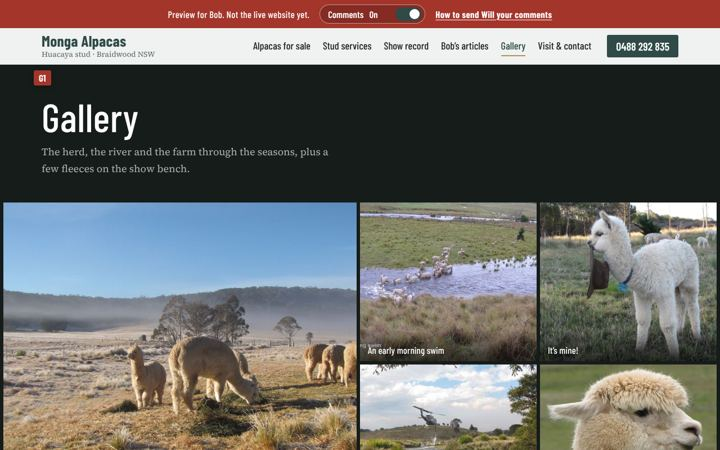
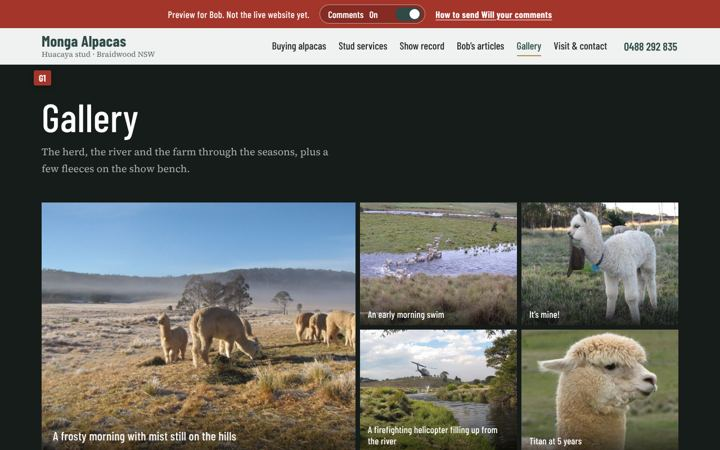
Commit 3

diff --git a/website/index.html b/website/index.html
@@ -22,9 +22,9 @@
 
 <header class="top">
   <div class="wrap">
-    <a class="logo" href="#">Monga Alpacas<small>Huacaya stud · Braidwood NSW</small></a>
+    <a class="logo" href="index.html">Monga Alpacas<small>Huacaya stud · Braidwood NSW</small></a>
     <nav id="main-nav" aria-label="Main">
-      <a href="#buy">Alpacas for sale</a>
+      <a href="#buy">Buying alpacas</a>
       <a href="#bloodlines">Stud services</a>
       <a href="#honours">Show record</a>
       <a href="articles.html">Bob’s articles</a>
@@ -98,7 +98,7 @@
           </div>
           <div class="gen-row">
             <div class="gen-label">Son</div>
-            <div class="gen-cells"><div class="beast"><b>Monga Khan</b><span class="win">Supreme Huacaya Fleece, Royal Canberra 2014 and 2016</span><span>Most Valuable Commercial Fleece, 2015</span></div></div>
+            <div class="gen-cells"><div class="beast"><b>Monga Khan</b><span class="win">Supreme Huacaya Fleece, Royal Canberra 2014 and 2016</span><span>Most Valuable Commercial Fleece, Royal Canberra 2015</span></div></div>
           </div>
           <div class="gen-row">
             <div class="gen-label">By Khan</div>
@@ -119,7 +119,6 @@
       <div><b>Bardella Park Acclaimed</b><span>By Yenaminut Evokateur</span></div>
       <div><b>Bardella Park Mystic Force</b><span>By EP Cambridge Phenomenon. Newest addition</span></div>
     </div>
-    <p class="note" style="margin-top:28px">Fees and availability change through the season.</p>
   </section>
 
   <section class="honours" id="honours" data-fb="H5 The show record" aria-labelledby="hon-h">
@@ -172,7 +171,7 @@
             <tr><td>2026</td><td>Gunning</td><td>Monga Uther</td><td>Champion Intermediate Huacaya Male</td><td class="src"><a href="https://ealpaca.com.au/event/results/browse?event_id=A8165FBE-F126-11F0-BF91-C9595EAB953C" target="_blank" rel="noopener">eAlpaca show results</a></td></tr>
           </tbody>
         </table>
-        <p class="src" style="margin-top:20px">Sources are the Australian Alpaca Association’s magazines, honour board and results catalogues, the Royal Agricultural Society of NSW’s official results, and eAlpaca, the AAA’s show results database (some eAlpaca results are marked preliminary). Age-class championships and reserve placings are not listed here.</p>
+        <p class="src" style="margin-top:20px">Sources are the Australian Alpaca Association’s magazines, honour board and results catalogues, the Royal Agricultural Society of NSW’s official results, and eAlpaca, the AAA’s show results database (some eAlpaca results are marked preliminary). Reserve placings are not listed here.</p>
       </details>
     </div>
   </section>
@@ -215,8 +214,8 @@
     </div>
   </section>
 
-  <section class="album" data-fb="H8 Around the farm (photos)" aria-labelledby="album-h">
-    <div class="wrap album-head"><h2 id="album-h">Around the farm</h2><a class="btn-ghost" href="gallery.html">See all 40 photos</a></div>
+  <section class="album" id="album" data-fb="H8 Around the farm (photos)" aria-labelledby="album-h">
+    <div class="wrap album-head"><h2 id="album-h">Around the farm</h2><a class="btn-ghost" href="gallery.html">See all 39 photos</a></div>
     <div class="mosaic">
       <a class="m-tile big" href="gallery.html#follow-the-leader"><img src="gallery/full/follow-the-leader.jpg" alt="" loading="lazy"><span>Follow the leader across the river</span></a>
       <a class="m-tile " href="gallery.html#mum-and-cria"><img src="gallery/thumb/mum-and-cria.jpg" alt="" loading="lazy"><span>Mum and cria</span></a>
@@ -231,7 +230,7 @@
       <div>
         <h2 id="con-h">Contact</h2>
         <a class="bigphone" href="tel:+61488292835">0488 292 835</a>
-        <p>Bob is happy to talk alpacas, whether you’re after a herd sire or two wethers for the back paddock. Prices are on enquiry and visits are by arrangement.</p>
+        <p>Bob is happy to talk alpacas, whether you’re after a herd sire or two wethers for the back paddock. Prices are on enquiry, and fees and availability change through the season. Visits are by arrangement.</p>
         <p class="enq">Enquire by email: <a href="mailto:mongaalpacas@bigpond.com?subject=Breeding%20stock%20enquiry&amp;body=Hello%20Bob%2C%0A%0AI%20am%20interested%20in%20breeding%20stock%20from%20Monga.%0A%0AWhat%20I%20am%20looking%20for%20%28females%2C%20a%20herd%20sire%2C%20matings%29%3A%0A%0AWhere%20I%20am%20based%3A%0A%0AMy%20phone%20number%3A%0A">breeding stock</a> · <a href="mailto:mongaalpacas@bigpond.com?subject=Wethers%20enquiry&amp;body=Hello%20Bob%2C%0A%0AI%20am%20interested%20in%20wethers%20from%20Monga.%0A%0AHow%20many%2C%20and%20what%20for%20%28pets%2C%20guarding%20sheep%20or%20poultry%29%3A%0A%0AWhere%20I%20am%20based%3A%0A%0AMy%20phone%20number%3A%0A">wethers</a></p>
         <dl>
           <dt>Email</dt><dd><a href="mailto:mongaalpacas@bigpond.com">mongaalpacas@bigpond.com</a></dd>
@@ -242,7 +241,7 @@
       <figure class="map">
         <svg class="locmap" viewBox="0 0 720 374" role="img" aria-labelledby="map-t map-d" xmlns="http://www.w3.org/2000/svg">
 <title id="map-t">Where Monga Alpacas is</title>
-<desc id="map-d">Map of the Kings Highway from Canberra through Bungendore and Braidwood to Batemans Bay on the coast. Monga Alpacas is about 17 km east of Braidwood, about two thirds of the way from Canberra to the coast.</desc>
+<desc id="map-d">Map of the Kings Highway from Canberra through Bungendore and Braidwood to Batemans Bay on the coast. Monga Alpacas is about 20 km east of Braidwood, about two thirds of the way from Canberra to the coast.</desc>
 <rect width="720" height="374" class="land"/>
 <path d="M787.7,-23.7 L734.5,47.5 L700.7,112.8 L676.5,166.2 L662.0,207.7 L647.5,231.5 L628.2,255.2 L608.9,279.0 L584.7,296.8 L565.4,314.6 L558.1,323.5 L565.4,332.4 L579.9,350.2 L575.0,373.9 L560.5,397.7 L550.9,409.6 L725,379 L725,-5 Z" class="sea"/>
 <path d="M787.7,-23.7 L734.5,47.5 L700.7,112.8 L676.5,166.2 L662.0,207.7 L647.5,231.5 L628.2,255.2 L608.9,279.0 L584.7,296.8 L565.4,314.6 L558.1,323.5 L565.4,332.4 L579.9,350.2 L575.0,373.9 L560.5,397.7 L550.9,409.6" class="coast"/>
@@ -268,7 +267,7 @@
 <footer class="site-foot">
   <div class="wrap foot-grid">
     <div><b class="foot-brand">Monga Alpacas</b><p>Huacaya stud<br>59 River Forest Road<br>Monga via Braidwood NSW 2622</p></div>
-    <nav aria-label="Footer"><a href="index.html#buy">Alpacas for sale</a><a href="index.html#bloodlines">Stud services</a><a href="index.html#honours">Show record</a><a href="articles.html">Bob’s articles</a><a href="gallery.html">Gallery</a><a href="index.html#contact">Visit &amp; contact</a></nav>
+    <nav aria-label="Footer"><a href="index.html#buy">Buying alpacas</a><a href="index.html#bloodlines">Stud services</a><a href="index.html#honours">Show record</a><a href="articles.html">Bob’s articles</a><a href="gallery.html">Gallery</a><a href="index.html#contact">Visit &amp; contact</a></nav>
     <div><a class="foot-phone" href="tel:+61488292835">0488 292 835</a><br><a href="mailto:mongaalpacas@bigpond.com">mongaalpacas@bigpond.com</a></div>
   </div>
   <div class="wrap foot-base"><span>© 2026 Monga Alpacas</span><span>About 20 km east of Braidwood, NSW</span></div>

diff --git a/website/gallery.html b/website/gallery.html
@@ -58,7 +58,7 @@
   <div class="wrap">
     <a class="logo" href="index.html">Monga Alpacas<small>Huacaya stud · Braidwood NSW</small></a>
     <nav id="main-nav" aria-label="Main">
-      <a href="index.html#buy">Alpacas for sale</a>
+      <a href="index.html#buy">Buying alpacas</a>
       <a href="index.html#bloodlines">Stud services</a>
       <a href="index.html#honours">Show record</a>
       <a href="articles.html">Bob’s articles</a>
@@ -82,7 +82,7 @@
     <a class="m-tile " href="#titan-at-5-years" data-open="titan-at-5-years"><img src="gallery/thumb/titan-at-5-years.jpg" alt=""><span>Titan at 5 years</span></a>
   </div>
   <div class="wrap" data-fb="G2 Gallery (all photos)">
-  <div class="chips" role="group" aria-label="Show photos of"><button type="button" data-f="all" aria-pressed="true">All <span>40</span></button><button type="button" data-f="alpacas" aria-pressed="false">Alpacas <span>21</span></button><button type="button" data-f="river" aria-pressed="false">The river <span>8</span></button><button type="button" data-f="farm" aria-pressed="false">The farm <span>8</span></button><button type="button" data-f="show" aria-pressed="false">Show bench <span>3</span></button></div>
+  <div class="chips" role="group" aria-label="Show photos of"><button type="button" data-f="all" aria-pressed="true">All <span>39</span></button><button type="button" data-f="alpacas" aria-pressed="false">Alpacas <span>20</span></button><button type="button" data-f="river" aria-pressed="false">The river <span>8</span></button><button type="button" data-f="farm" aria-pressed="false">The farm <span>8</span></button><button type="button" data-f="show" aria-pressed="false">Show bench <span>3</span></button></div>
   <ul class="grid" id="grid">
       <li class="tile" data-cat="farm" id="frosty-morning"><a href="gallery/full/frosty-morning.jpg" data-w="1800" data-h="1010"><img src="gallery/thumb/frosty-morning.jpg" width="720" height="404" alt="A frosty morning with mist still on the hills" loading="lazy"></a><p>A frosty morning with mist still on the hills</p></li>
       <li class="tile" data-cat="alpacas" id="its-mine"><a href="gallery/full/its-mine.jpg" data-w="1800" data-h="1438"><img src="gallery/thumb/its-mine.jpg" width="720" height="575" alt="It’s mine!" loading="lazy"></a><p>It’s mine!</p></li>
@@ -121,7 +121,6 @@
       <li class="tile" data-cat="farm" id="in-the-yards"><a href="gallery/full/in-the-yards.jpg" data-w="1800" data-h="1010"><img src="gallery/thumb/in-the-yards.jpg" width="720" height="404" alt="In the covered yards" loading="lazy"></a><p>In the covered yards</p></li>
       <li class="tile" data-cat="river" id="helicopter-over-the-river"><a href="gallery/full/helicopter-over-the-river.jpg" data-w="1800" data-h="1010"><img src="gallery/thumb/helicopter-over-the-river.jpg" width="720" height="404" alt="A firefighting helicopter filling up from the river" loading="lazy"></a><p>A firefighting helicopter filling up from the river</p></li>
       <li class="tile small" data-cat="alpacas" id="forest-grazing"><a href="gallery/full/forest-grazing.jpg" data-w="350" data-h="338"><img src="gallery/thumb/forest-grazing.jpg" width="350" height="338" alt="Forest grazing" loading="lazy"></a><p>Forest grazing</p></li>
-      <li class="tile" data-cat="alpacas" id="at-the-fence"><a href="gallery/full/at-the-fence.jpg" data-w="1800" data-h="936"><img src="gallery/thumb/at-the-fence.jpg" width="720" height="374" alt="Everyone at the fence" loading="lazy"></a><p>Everyone at the fence</p></li>
       <li class="tile small" data-cat="alpacas" id="meadow-grazing"><a href="gallery/full/meadow-grazing.jpg" data-w="350" data-h="196"><img src="gallery/thumb/meadow-grazing.jpg" width="350" height="196" alt="Meadow grazing" loading="lazy"></a><p>Meadow grazing</p></li>
       <li class="tile" data-cat="farm" id="spread-across-the-paddock"><a href="gallery/full/spread-across-the-paddock.jpg" data-w="1800" data-h="1010"><img src="gallery/thumb/spread-across-the-paddock.jpg" width="720" height="404" alt="Spread across the paddock" loading="lazy"></a><p>Spread across the paddock</p></li>
   </ul>
@@ -130,7 +129,7 @@
 <footer class="site-foot">
   <div class="wrap foot-grid">
     <div><b class="foot-brand">Monga Alpacas</b><p>Huacaya stud<br>59 River Forest Road<br>Monga via Braidwood NSW 2622</p></div>
-    <nav aria-label="Footer"><a href="index.html#buy">Alpacas for sale</a><a href="index.html#bloodlines">Stud services</a><a href="index.html#honours">Show record</a><a href="articles.html">Bob’s articles</a><a href="gallery.html">Gallery</a><a href="index.html#contact">Visit &amp; contact</a></nav>
+    <nav aria-label="Footer"><a href="index.html#buy">Buying alpacas</a><a href="index.html#bloodlines">Stud services</a><a href="index.html#honours">Show record</a><a href="articles.html">Bob’s articles</a><a href="gallery.html">Gallery</a><a href="index.html#contact">Visit &amp; contact</a></nav>
     <div><a class="foot-phone" href="tel:+61488292835">0488 292 835</a><br><a href="mailto:mongaalpacas@bigpond.com">mongaalpacas@bigpond.com</a></div>
   </div>
   <div class="wrap foot-base"><span>© 2026 Monga Alpacas</span><span>About 20 km east of Braidwood, NSW</span></div>
@@ -166,7 +165,7 @@
   document.getElementById('lb-next').onclick=function(){show(cur+1);};
   document.getElementById('lb-close').onclick=function(){lb.close();};
   lb.addEventListener('close',function(){document.body.style.overflow='';history.replaceState(null,'',location.pathname); if(list[cur]) list[cur].querySelector('a').focus();});
-  lb.addEventListener('keydown',function(e){ if(e.key==='ArrowRight') show(cur+1); if(e.key==='ArrowLeft') show(cur-1); });
+  document.addEventListener('keydown',function(e){ if(!lb.open) return; if(e.key==='ArrowRight') show(cur+1); if(e.key==='ArrowLeft') show(cur-1); });
   lb.addEventListener('click',function(e){ if(e.target===lb||e.target.classList.contains('lb-stage')) lb.close(); });
   var x0=null; lb.addEventListener('touchstart',function(e){x0=e.touches[0].clientX;},{passive:true});
   lb.addEventListener('touchend',function(e){ if(x0===null) return; var dx=e.changedTouches[0].clientX-x0; if(Math.abs(dx)>50) show(cur+(dx<0?1:-1)); x0=null; });

diff --git a/website/site.js b/website/site.js
@@ -11,10 +11,12 @@
     document.addEventListener('keydown',function(e){ if(e.key==='Escape'&&header.classList.contains('menu-open')){ header.classList.remove('menu-open'); btn.setAttribute('aria-expanded','false'); btn.focus(); } });
   }
   // Section highlighting on the home page (links that point to #sections on this page).
-  var links=[].slice.call(nav.querySelectorAll('a')).filter(function(a){ return /^(index\.html)?#/.test(a.getAttribute('href')) && !document.body.classList.contains('no-spy'); });
-  var extra={paddock:'buy'};
-  var ids=links.map(function(a){return a.getAttribute('href').split('#')[1];});
-  var secs=[]; ids.forEach(function(id){ var el=document.getElementById(id); if(el) secs.push({el:el,id:id}); });
+  // Home page sections without their own menu link light up the nearest page link (Bob -> articles, photos -> gallery).
+  function key(a){ var h=a.getAttribute('href'); return h.indexOf('#')>-1 ? h.split('#')[1] : h; }
+  var extra={paddock:'buy', bob:'articles.html', album:'gallery.html'};
+  var onHome=!!document.getElementById('buy') && !document.body.classList.contains('no-spy');
+  var links=onHome ? [].slice.call(nav.querySelectorAll('a')).filter(function(a){ return /^(index\.html)?#|^(articles|gallery)\.html$/.test(a.getAttribute('href')); }) : [];
+  var secs=[]; links.forEach(function(a){ var id=key(a); if(id.indexOf('.html')<0){ var el=document.getElementById(id); if(el) secs.push({el:el,id:id}); } });
   Object.keys(extra).forEach(function(k){ var el=document.getElementById(k); if(el) secs.push({el:el,id:extra[k]}); });
   var current=null,ticking=false;
   function update(){
@@ -24,7 +26,7 @@
     secs.forEach(function(s){ var t=s.el.getBoundingClientRect().top; if(t<=line&&t>best){best=t;active=s.id;} });
     if(window.innerHeight+window.scrollY>=document.documentElement.scrollHeight-4 && document.getElementById('contact')) active='contact';
     if(active===current) return; current=active;
-    links.forEach(function(a){ if(a.getAttribute('href').split('#')[1]===active) a.setAttribute('aria-current','true'); else a.removeAttribute('aria-current'); });
+    links.forEach(function(a){ if(key(a)===active) a.setAttribute('aria-current','true'); else a.removeAttribute('aria-current'); });
   }
   window.addEventListener('scroll',function(){ if(!ticking){ticking=true;requestAnimationFrame(update);} },{passive:true});
   window.addEventListener('resize',function(){ setHdr(); update(); });

diff --git a/website/articles.html b/website/articles.html
@@ -11,7 +11,7 @@
 <meta property="og:type" content="website">
 <meta property="og:site_name" content="Monga Alpacas">
 <meta property="og:title" content="Bob’s articles — Monga Alpacas">
-<meta property="og:description" content="Huacaya alpaca stud east of Braidwood, NSW. Breeding stock, stud services and wethers, bred for fine, dense fleece.">
+<meta property="og:description" content="Technical articles on alpaca fleece density, fleece testing, showing and herd health by Bob Kingwell of Monga Alpacas, with a fleece density calculator.">
 <meta property="og:image" content="img/hero-1200.jpg">
 <meta name="twitter:card" content="summary_large_image">
 <link rel="stylesheet" href="site.css">
@@ -22,7 +22,7 @@
   <div class="wrap">
     <a class="logo" href="index.html">Monga Alpacas<small>Huacaya stud · Braidwood NSW</small></a>
     <nav id="main-nav" aria-label="Main">
-      <a href="index.html#buy">Alpacas for sale</a>
+      <a href="index.html#buy">Buying alpacas</a>
       <a href="index.html#bloodlines">Stud services</a>
       <a href="index.html#honours">Show record</a>
       <a href="articles.html" aria-current="page">Bob’s articles</a>
@@ -97,7 +97,7 @@
 <footer class="site-foot">
   <div class="wrap foot-grid">
     <div><b class="foot-brand">Monga Alpacas</b><p>Huacaya stud<br>59 River Forest Road<br>Monga via Braidwood NSW 2622</p></div>
-    <nav aria-label="Footer"><a href="index.html#buy">Alpacas for sale</a><a href="index.html#bloodlines">Stud services</a><a href="index.html#honours">Show record</a><a href="articles.html">Bob’s articles</a><a href="gallery.html">Gallery</a><a href="index.html#contact">Visit &amp; contact</a></nav>
+    <nav aria-label="Footer"><a href="index.html#buy">Buying alpacas</a><a href="index.html#bloodlines">Stud services</a><a href="index.html#honours">Show record</a><a href="articles.html">Bob’s articles</a><a href="gallery.html">Gallery</a><a href="index.html#contact">Visit &amp; contact</a></nav>
     <div><a class="foot-phone" href="tel:+61488292835">0488 292 835</a><br><a href="mailto:mongaalpacas@bigpond.com">mongaalpacas@bigpond.com</a></div>
   </div>
   <div class="wrap foot-base"><span>© 2026 Monga Alpacas</span><span>About 20 km east of Braidwood, NSW</span></div>

diff --git a/website/bob.html b/website/bob.html
@@ -67,7 +67,7 @@ body{font-size:1.3rem;line-height:1.6}
     <li><strong>The show record.</strong> The main championships from 2013 to 2026 are listed, and each one links to the official show report.</li>
     <li><strong>Your articles</strong> have their own page, grouped by subject, and open on the website in larger, easier print. <strong>Your words have not been changed.</strong> Each one has a short summary at the top, written by Will’s helper, so please check those. There is also a tidy printable copy of each article with a Monga Alpacas heading.</li>
     <li><strong>A density calculator</strong> in your “objective method” article. It does the same sum as your spreadsheet.</li>
-    <li><strong>A photo gallery</strong> with 40 photos, using the larger originals where you had them.</li>
+    <li><strong>A photo gallery</strong> with 39 photos, using the larger originals where you had them.</li>
     <li><strong>A map</strong> showing where the farm is between Canberra and the coast.</li>
     <li>It all works on a <strong>phone or iPad</strong> as well as the computer.</li>
   </ul>
